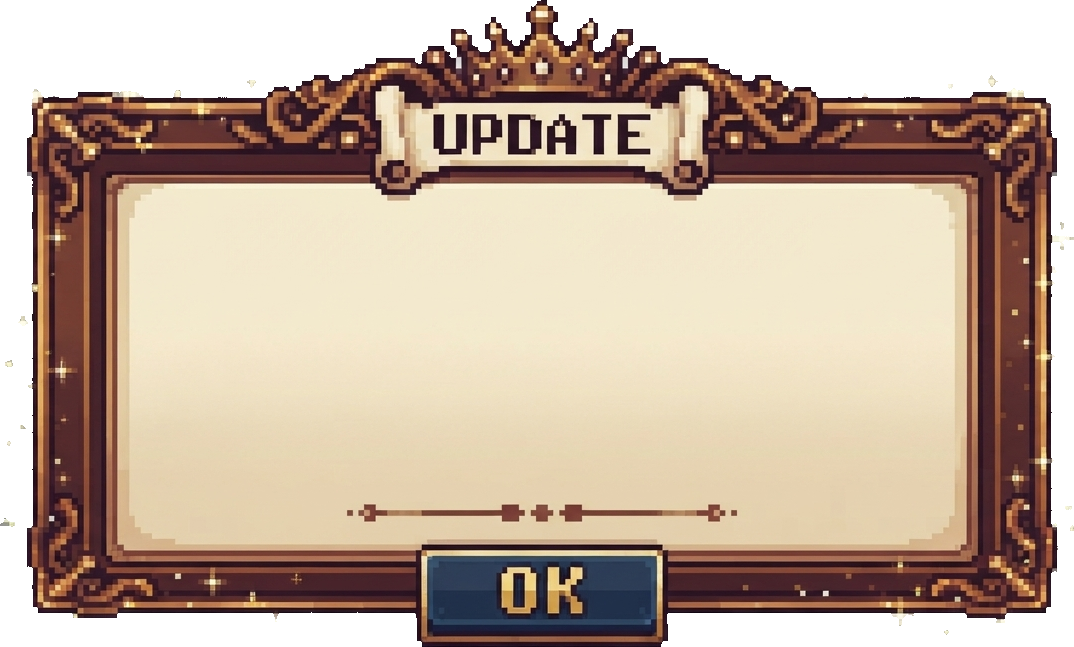
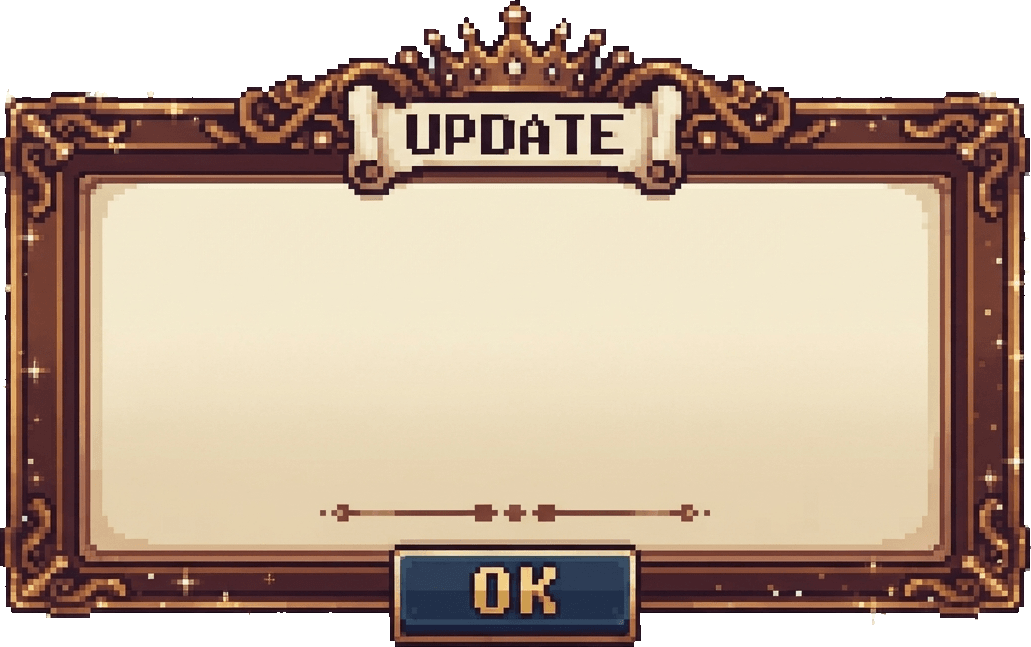
Give the update board a pixel-art frame

diff --git a/assets/scripts/UpdatePanel.ts b/assets/scripts/UpdatePanel.ts
@@ -25,11 +25,11 @@ const UPDATE_LINES = [
     '· 施法姿勢：按 J／空白鍵會擺出施法動作',
 ];
 
-/** 底圖比例（切好的 update-frame.png 是 1074×647）。 */
-const ART_ASPECT = 1074 / 647;
+/** 底圖比例（切好的 update-frame.png 是 1031×647）。 */
+const ART_ASPECT = 1031 / 647;
 /** 底圖上「米色內裡」與「OK 鈕」的相對位置（量出來的）。 */
-const INNER = { l: 0.110, r: 0.899, t: 0.284, b: 0.839 };
-const OK_BTN = { l: 0.399, r: 0.610, t: 0.861, b: 0.964 };
+const INNER = { l: 0.099, r: 0.901, t: 0.284, b: 0.839 };
+const OK_BTN = { l: 0.389, r: 0.610, t: 0.861, b: 0.972 };
 
 let shown = false;   // 這次載入跳過了沒
 